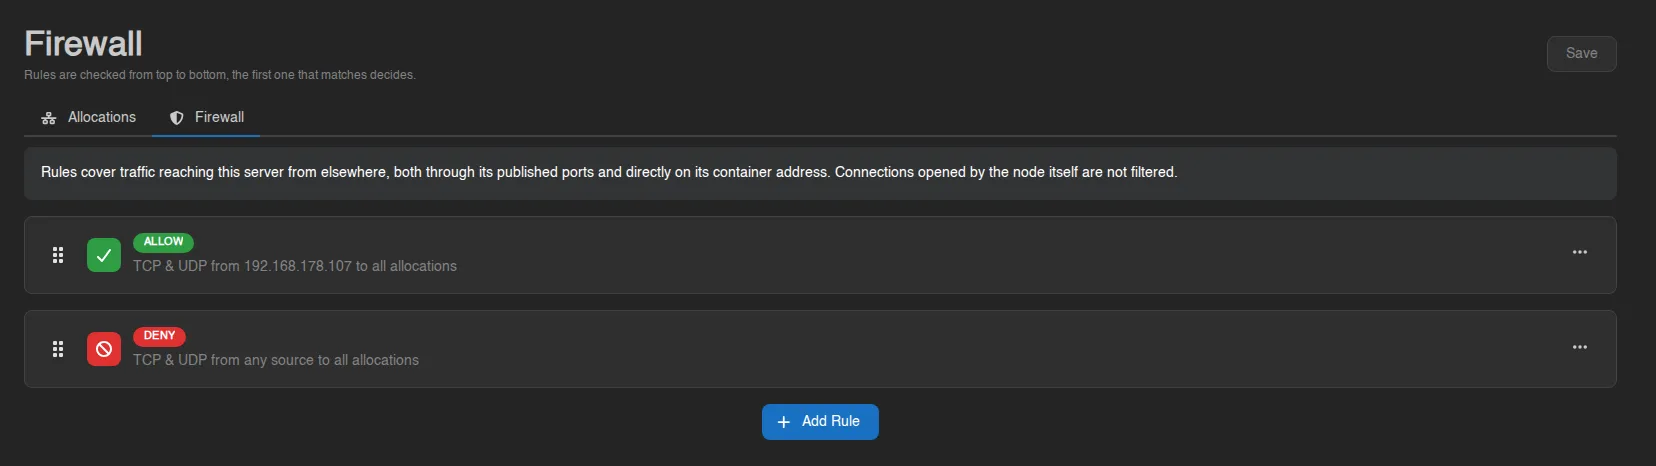
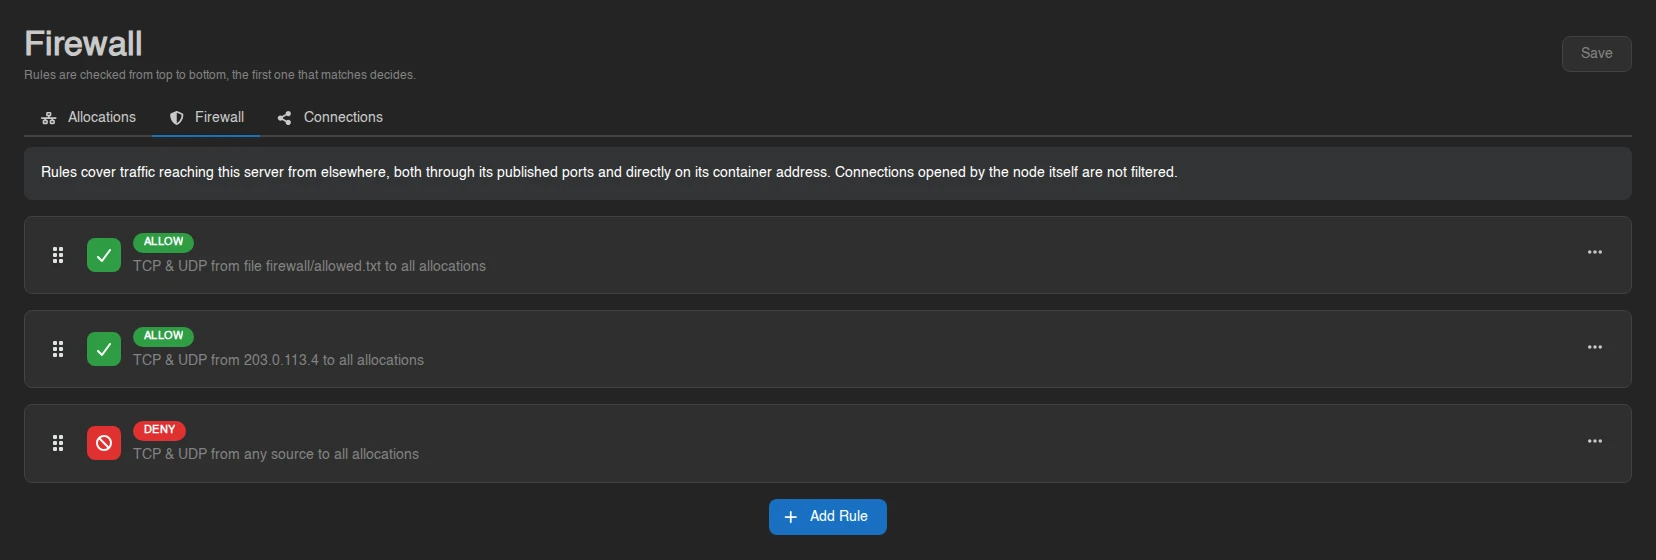
doc updates

diff --git a/.vitepress/data/config/wings.ts b/.vitepress/data/config/wings.ts
@@ -992,6 +992,18 @@ export const wingsConfigDoc: ConfigDoc = {
           ],
         },
         {
+          key: 'docker.firewall.source_file_max_entries',
+          description:
+            'The maximum number of entries Wings loads from the source file of a firewall rule. A file holding more than this is rejected as a whole, and the rule keeps the entries it last loaded.',
+          default: 10000,
+        },
+        {
+          key: 'docker.firewall.source_file_max_bytes',
+          description:
+            'The maximum size (in bytes) of the source file of a firewall rule. A file larger than this is rejected as a whole, and the rule keeps the entries it last loaded.',
+          default: 1048576,
+        },
+        {
           key: 'docker.domainname',
           description: 'The domain name assigned to containers, useful for internal networking resolution.',
           default: '',

diff --git a/web/docs/panel/features/server/network/firewall.md b/web/docs/panel/features/server/network/firewall.md
@@ -21,22 +21,44 @@ The **Deny Everything Else** button next to that warning appends a deny rule wit
 
 ![](./images/firewall/rules.webp)
 
-The ruleset above does exactly that: one rule allowing a single address, with a catch-all deny beneath it.
+The ruleset above does exactly that: one rule allowing whatever a source file lists, one allowing a single address, and a catch-all deny beneath them.
 
 ## Rule Fields
 
-**Add Rule** opens a modal with four fields. An empty field means "match everything", so a rule with nothing filled in matches all traffic.
+**Add Rule** opens a modal with five fields. An empty field means "match everything", so a rule with nothing filled in matches all traffic.
 
 | Field | What it does |
 | --- | --- |
 | **Action** | **Allow** or **Deny** the traffic this rule matches. |
 | **Protocols** | **TCP**, **UDP**, or both. Leave empty to match both. |
 | **Sources** | IP addresses or networks such as `10.0.0.0/8`. A network must have its host bits zeroed, so `10.1.0.0/8` is rejected while `10.0.0.0/8` is fine. Leave empty to match any source. |
+| **Source File** | Path of a file in the server directory, such as `firewall/allowed.txt`, whose entries are added to the sources above. See [Source Files](#source-files). |
 | **Ports** | Allocation ports the rule applies to. Ranges like `25565-25570` are expanded into individual ports. Leave empty to match every allocation of the server. |
 
-Each rule card summarizes itself in the form *protocols* from *sources* to *ports*, falling back to "TCP & UDP", "any source" and "all allocations" for the empty cases. Right-click a rule to edit, or use its card menu to remove it.
+Each rule card summarizes itself in the form *protocols* from *sources* to *ports*, falling back to "TCP & UDP", "any source" and "all allocations" for the empty cases. A source file shows up in that summary as *file firewall/allowed.txt*. Right-click a rule to edit, or use its card menu to remove it.
 
 <img src="./images/firewall/rule-form.webp" width="220" alt="" />
+
+## Source Files
+
+A rule can take its sources from a text file inside the server directory instead of the modal, one IP address or network per line. Blank lines are skipped and everything after a `#` is a comment, so a file may look like this:
+
+```
+# staff
+203.0.113.4
+10.0.0.0/8  # office
+2001:db8::/32
+```
+
+The file's entries are unioned with the rule's inline sources, so a rule with a file and no inline sources matches only what the file lists. A rule with a source file is never a catch-all, even with everything else left empty.
+
+The node reads the file itself. Edit it any way you like, including from the game server, and the node picks the change up within a few seconds. Lines that do not parse are skipped, and the server console reports how many entries were loaded each time the file changes. When the file is missing or cannot be read, the rule keeps the entries it last loaded and the console says so. A file with no valid entries at all does clear the list.
+
+The path is relative to the server directory and cannot leave it. The panel never reads the file, so the same rule on two servers uses each server's own copy. To share a list, copy the file to the other servers.
+
+::: info
+Each node caps the size of a source file. By default a file may hold 10000 entries and 1 MiB, set through `docker.firewall.source_file_max_entries` and `docker.firewall.source_file_max_bytes` in the [Wings configuration](../../../../wings/configuration.md#docker-firewall-source-file-max-entries). A file over either cap is not loaded at all and the previous entries stay in place.
+:::
 
 ## Saving
 

diff --git a/web/docs/wings/configuration.md b/web/docs/wings/configuration.md
@@ -1301,6 +1301,22 @@ Server firewalls are Linux only, and are not supported with a rootless container
 When no backend ends up usable - an unsupported platform, a rootless engine, neither `nft` nor `iptables` present, or a helper container that fails to start - a server that has firewall rules configured refuses to start rather than running unprotected. Set this to `disabled` to start such servers anyway, in which case Wings logs a warning per server and leaves its rules unapplied.
 :::
 
+### docker.firewall.source_file_max_entries
+The maximum number of entries Wings loads from the source file of a firewall rule. A file holding more than this is rejected as a whole, and the rule keeps the entries it last loaded.
+
+Default value:
+```yaml
+source_file_max_entries: 10000
+```
+
+### docker.firewall.source_file_max_bytes
+The maximum size (in bytes) of the source file of a firewall rule. A file larger than this is rejected as a whole, and the rule keeps the entries it last loaded.
+
+Default value:
+```yaml
+source_file_max_bytes: 1048576
+```
+
 ### docker.domainname
 The domain name assigned to containers, useful for internal networking resolution.
 
@@ -2054,6 +2070,8 @@ docker:
         gateway: fdba:17c8:6c94::1011
   firewall:
     backend: auto
+    source_file_max_entries: 10000
+    source_file_max_bytes: 1048576
   domainname: ''
   registries: {}
   registry_image_fetch_cache:
@@ -2344,6 +2362,8 @@ docker:
         gateway: fdba:17c8:6c94::1011
   firewall:
     backend: auto
+    source_file_max_entries: 10000
+    source_file_max_bytes: 1048576
   domainname: ''
   registries: {}
   registry_image_fetch_cache:

diff --git a/web/docs/panel/features/server/schedules.md b/web/docs/panel/features/server/schedules.md
@@ -106,6 +106,7 @@ Restoring stops the server and overwrites its files; avoid combining **Restore B
 | **Rename Files** | Rename or move files. | **Root Path**, file pairs (**from** / **to**) |
 | **Compress Files** | Compress files into an archive. | **Root Path**, **Files to Compress**, **Archive Format** (`.tar` family, `.zip`, `.7z`), **Archive Name**, **Run in Foreground** |
 | **Decompress File** | Extract an archive into a folder. | **Root Path**, **File**, **Run in Foreground** |
+| **Pull File** | Download a file from a URL into a folder. | **File URL**, **Root Path**, **File Name** (derived from the URL or the response when left empty), **Use Response File Name**, **Run in Foreground** |
 
 #### Startup Settings
 
